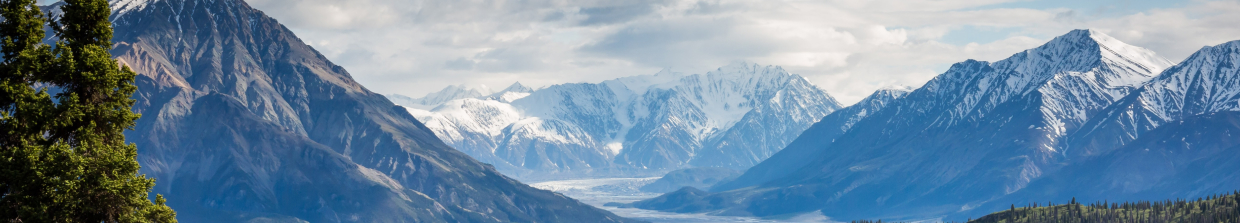
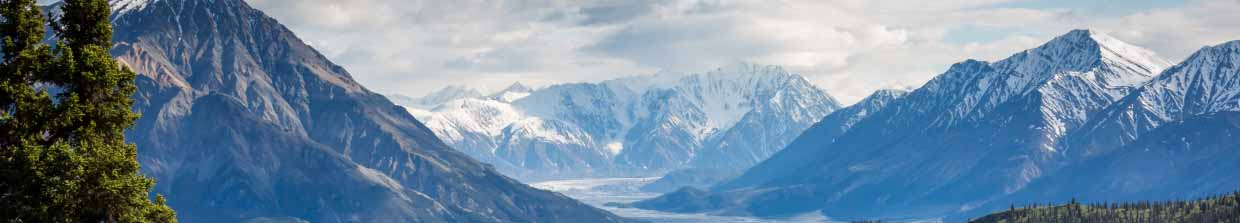
Optimisation de l'application et du chargement des images sur la page home.

diff --git a/src/Components/Carroussel/Carrousel.jsx b/src/Components/Carroussel/Carrousel.jsx
@@ -42,7 +42,7 @@ class Carrousel extends React.Component {
     }
 
     /**
-     * Évenement du bouton droit
+     * Événement du bouton droit
      * 
      * @param {Event} event
      **/
@@ -56,7 +56,7 @@ class Carrousel extends React.Component {
     }
 
     /**
-     * Évenement du bouton gauche
+     * Événement du bouton gauche
      * 
      * @param {Event} event
      **/
@@ -70,7 +70,7 @@ class Carrousel extends React.Component {
     }
 
     /**
-     * Évenement du clavier
+     * Événement du clavier
      * 
      * @param {Event} event 
      **/
@@ -107,7 +107,7 @@ class Carrousel extends React.Component {
                 </div>
 
                 <div className="carrousel__actions">
-                    <button className="carrousel__btn carrousel__btn-left" onClick={this.handleLeft}>
+                    <button className="carrousel__btn carrousel__btn-left" onClick={this.handleLeft} aria-label={"Tourner a gauche"}>
                         <span className="icon">
                             <svg viewBox="0 0 48 80" fill="none" xmlns="http://www.w3.org/2000/svg">
                                 <path
@@ -117,7 +117,7 @@ class Carrousel extends React.Component {
                         </span>
                     </button>
 
-                    <button className="carrousel__btn carrousel__btn-right" onClick={this.handleRight}>
+                    <button className="carrousel__btn carrousel__btn-right" onClick={this.handleRight} aria-label={"Tourner a droite"}>
                         <span className="icon">
                             <svg viewBox="0 0 48 80" fill="none" xmlns="http://www.w3.org/2000/svg">
                                 <path

diff --git a/src/Components/Thumb/Thumb.jsx b/src/Components/Thumb/Thumb.jsx
@@ -10,15 +10,50 @@ class Thumb extends React.Component {
             const err = Error('The component doesn\'t contain url_img property');
             throw err;
         }
+
+        this.state = {
+            visible: false,
+            observer: null
+        }
+
+        this.ref = React.createRef();
+        this.handleVisibility = this.handleVisibility.bind(this);
     }
 
-    render() { 
-        return <div className="thumb filter">
-            { 
+    componentDidMount() {
+        const options = {
+            root: null,
+            rootMargin: '0px',
+            threshold: 0.5
+        }
+
+        const observer = new IntersectionObserver(this.handleVisibility, options)
+
+        if(this.ref.current) {
+            observer.observe(this.ref.current);
+        }
+    }
+
+    handleVisibility(entries) {
+        const [entry] = entries;
+
+        if(entry.isIntersecting) {
+            this.setState({
+                visible: true
+            });
+        }
+    }
+
+    render() {
+        return <div ref={this.ref} className="thumb filter">
+            {
                 this.props.title &&
                 <h3 className="thumb__title">{this.props.title}</h3>
             }
-            <img className="thumb__img" src={this.props.url_img} alt="bg_thumb" />
+
+            {
+                this.state.visible && <img className="thumb__img" src={this.props.url_img} alt="bg_thumb" />
+            }
        </div>;
     }
 }

diff --git a/src/Components/Logo/Logo.jsx b/src/Components/Logo/Logo.jsx
@@ -9,7 +9,7 @@ class Logo extends React.Component {
 
     render() {
         return <div className="logo">
-            <Link to={"/"}>
+            <Link to={"/"} aria-label={"Logo"}>
                 <svg viewBox="0 0 211 68" fill="none" xmlns="http://www.w3.org/2000/svg">
                         <path d="M20.0745 34.6485L8.84014 46.1362V62.2561H0V0H8.84014V34.8338L42.359 0H52.4883L26.1521 27.9782L54.33 62.2561H44.0165L20.0745 34.6485Z" fill={this.color}/>
                         <path d="M118.789 57.2534L122.289 50.5831C126.34 53.3624 132.602 55.4005 138.68 55.4005C146.599 55.4005 149.73 52.9918 149.73 48.9155C149.73 38.3542 120.078 47.4332 120.078 28.7193C120.078 20.1962 127.629 14.6376 139.6 14.6376C145.678 14.6376 152.676 16.3052 156.728 18.8992L153.045 25.5695C148.809 22.7902 144.205 21.8638 139.6 21.8638C132.234 21.8638 128.55 24.6431 128.55 28.3488C128.55 39.4659 158.202 30.3869 158.202 48.7302C158.202 57.2534 150.466 62.6267 137.943 62.6267C130.392 62.812 122.657 60.4033 118.789 57.2534Z" fill={this.color}/>

diff --git a/src/Pages/Home.jsx b/src/Pages/Home.jsx
@@ -29,7 +29,7 @@ class Home extends React.Component {
     
     render() { 
         return <div className="home">
-            <Section src="/medias/image_section.jpg" text="Chez vous, partout et ailleurs" />
+            <Section src="/medias/image_section.webp" text="Chez vous, partout et ailleurs" />
 
             <section className="home__gallery">
                 {
@@ -41,7 +41,7 @@ class Home extends React.Component {
                     this.state.dataIsLoaded && 
                     this.state.data.map(property => 
                         <React.Fragment key={property.id}>
-                            <Link to={"/property/" + property.id} className="home__thumb"><Thumb title={property.title} url_img={property.cover} /></Link>
+                            <Link to={"/property/" + property.id} className="home__thumb"><Thumb title={property.title} url_img={property.cover} aria-label={"Afficher un bien"} /></Link>
                         </React.Fragment>
                     )
                 }

diff --git a/src/Components/Dropdown/Dropdown.jsx b/src/Components/Dropdown/Dropdown.jsx
@@ -89,14 +89,14 @@ class Dropdown extends React.Component {
     /**
      * Affcihe le composant dropdown
      * 
-     * @returns {HTMLElement|null} Composant dropdown 
+     * @returns {JSX.Element} Composant dropdown
      **/
     render() {
        if(this.title) {
             return <div className="dropdown">
                     <div className="dropdown__header">
                         <p className="dropdown__header-title">{this.title}</p>
-                        <button onClick={this.onButtonVisible}>
+                        <button aria-label="action_dropdown" onClick={this.onButtonVisible}>
                             { this.displayIcon() }
                         </button>
                     </div>

diff --git a/src/Pages/About.jsx b/src/Pages/About.jsx
@@ -12,6 +12,7 @@ class About extends React.Component {
                     </div>
                     
                     <div className="about__container">
+                        <h1>Nous découvrir</h1>
                         <Dropdown title="Fiabilité">
                            <p>Les annonces postées sur Kasa garantissent une fiabilité totale. Les photos sont conformes aux logements, et toutes les informations sont régulièrement vérifiées par nos équipes.</p> 
                         </Dropdown>
